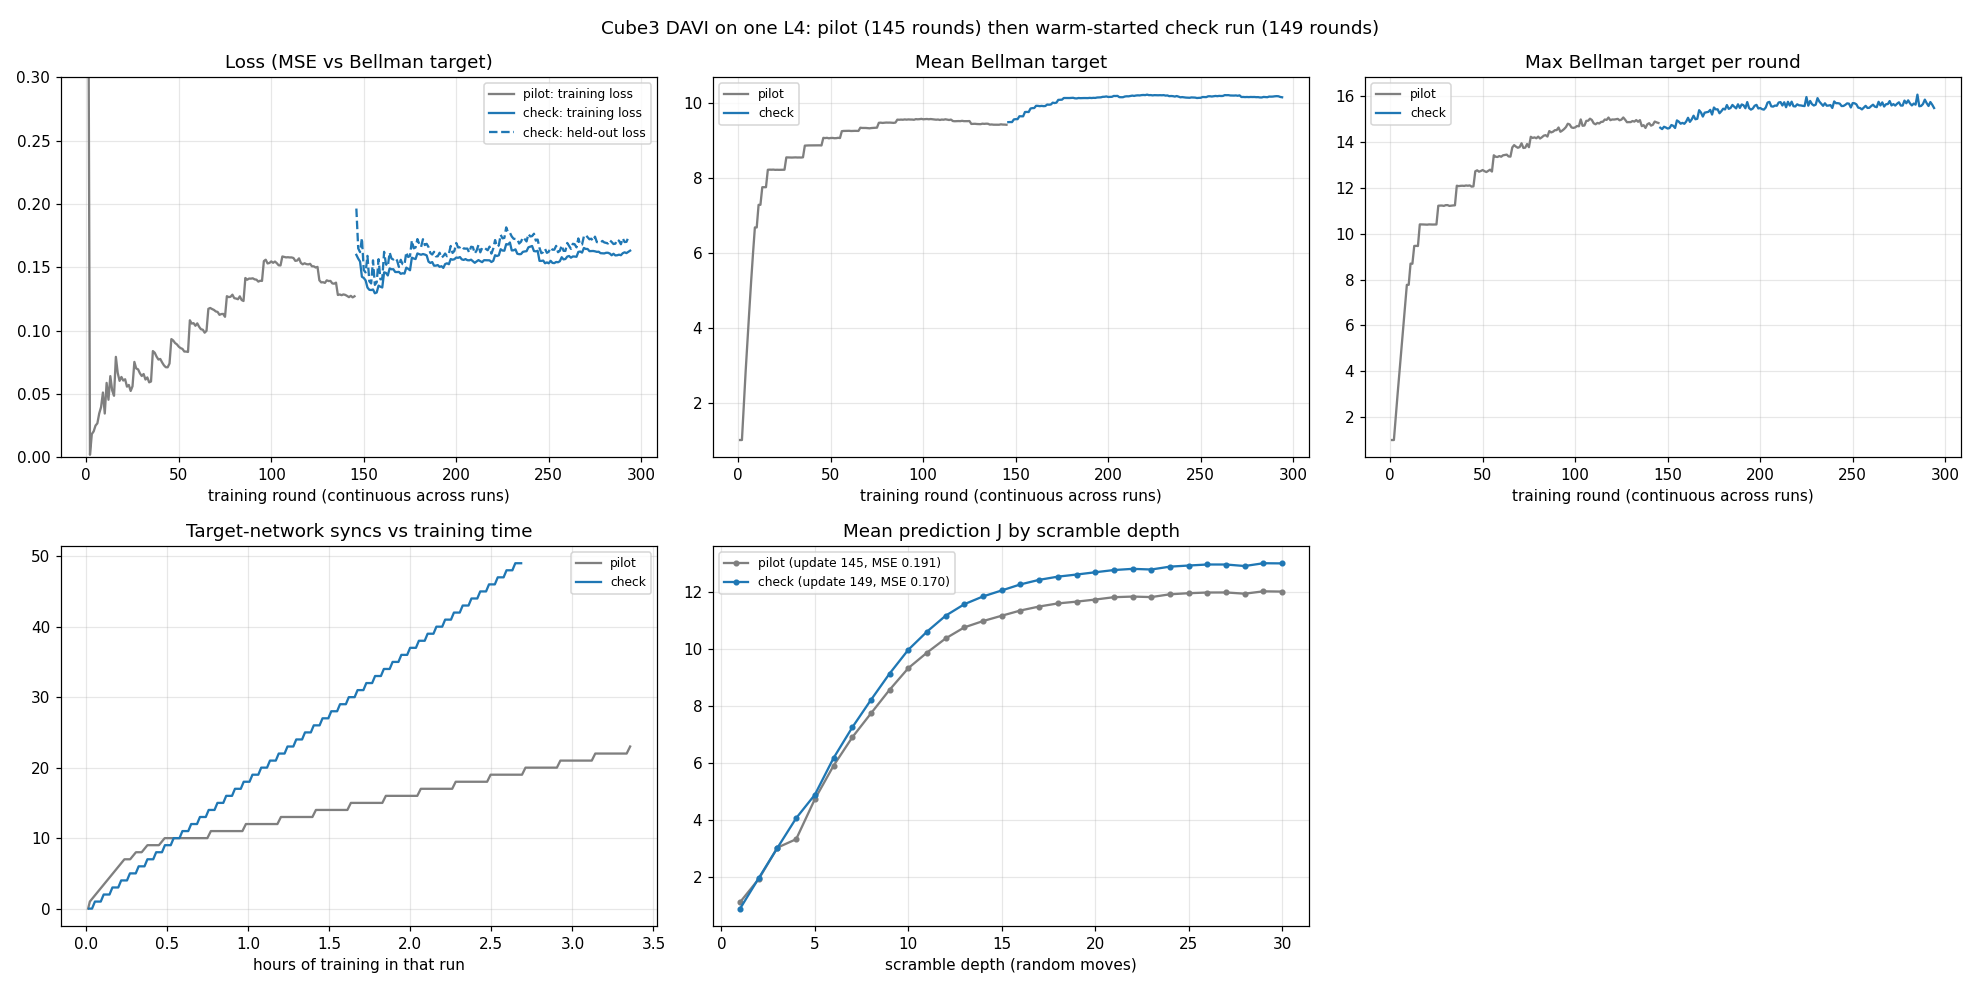
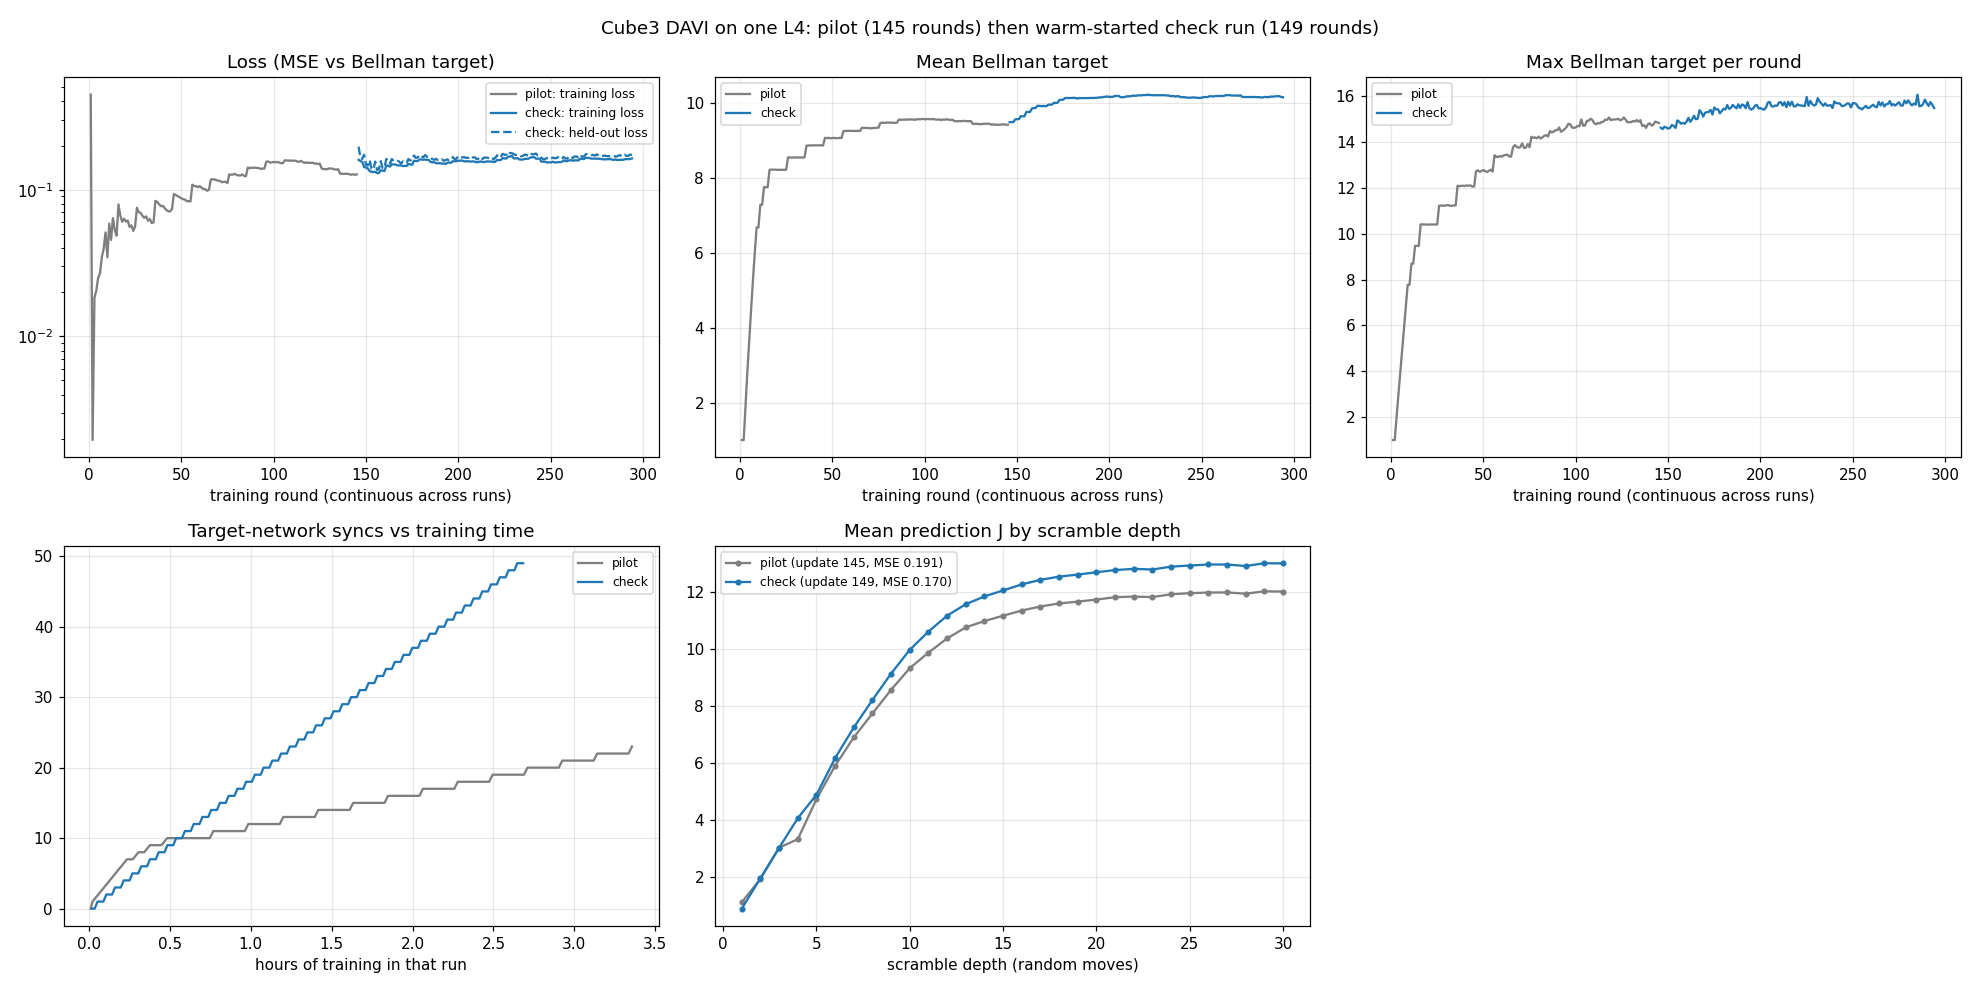
plot: log-scale loss axis so early losses stay visible

diff --git a/training/gpss_train/plot.py b/training/gpss_train/plot.py
@@ -56,7 +56,7 @@ def plot(logs: List[str], profiles: List[str], out: Path, title: str = "") -> Pa
         ax[2].plot(rounds, [r["target_max"] for r in recs], color=c, label=name)
         ax[3].plot([r["wall_s"] / 3600 for r in recs], [r["syncs"] for r in recs], color=c, label=name)
         offset = max(offset, rounds[-1]) if rounds else offset
-    ax[0].set_ylim(0, 0.3)
+    ax[0].set_yscale("log")  # early-training losses are orders of magnitude above the plateau
     ax[0].set_title("Loss (MSE vs Bellman target)")
     ax[1].set_title("Mean Bellman target")
     ax[2].set_title("Max Bellman target per round")
